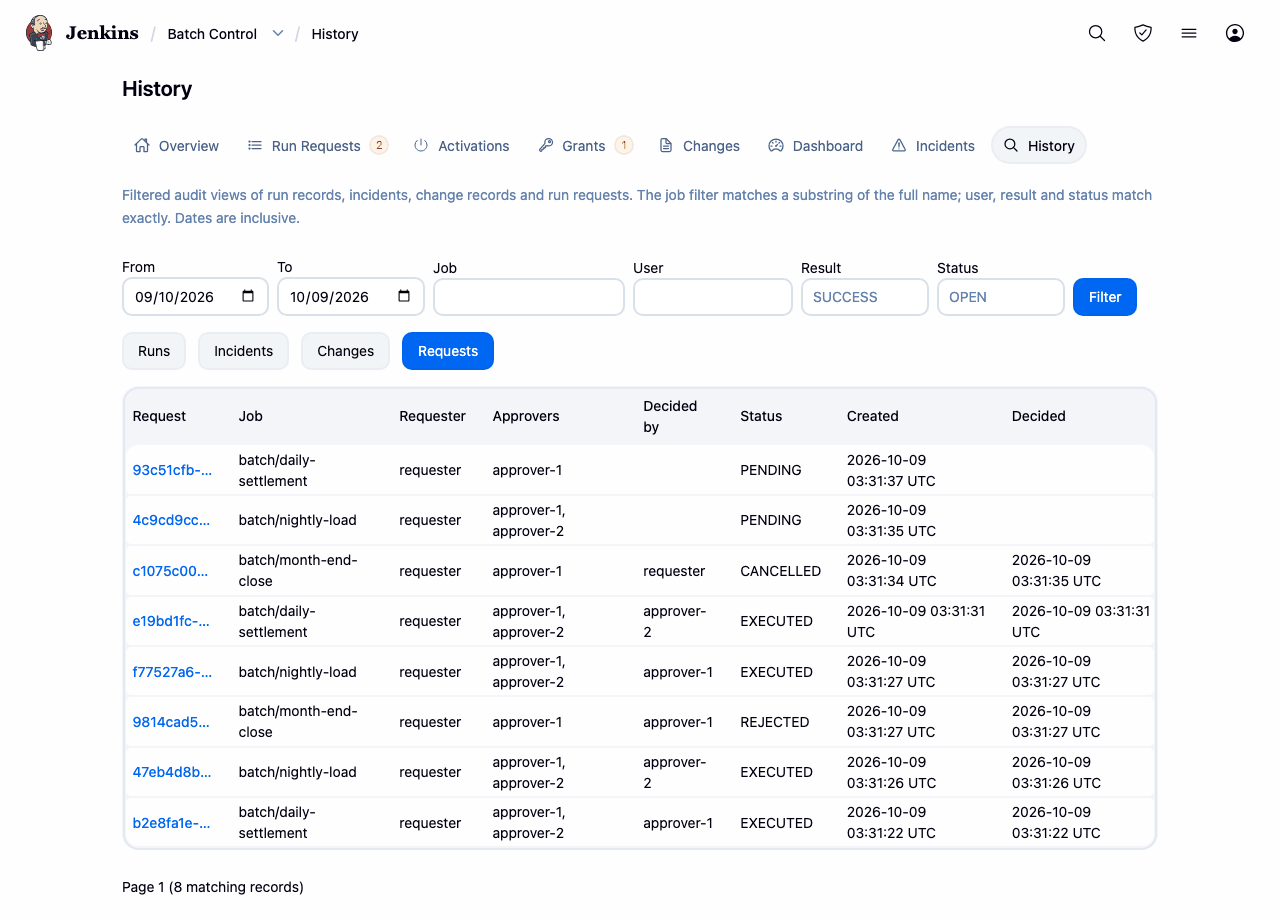
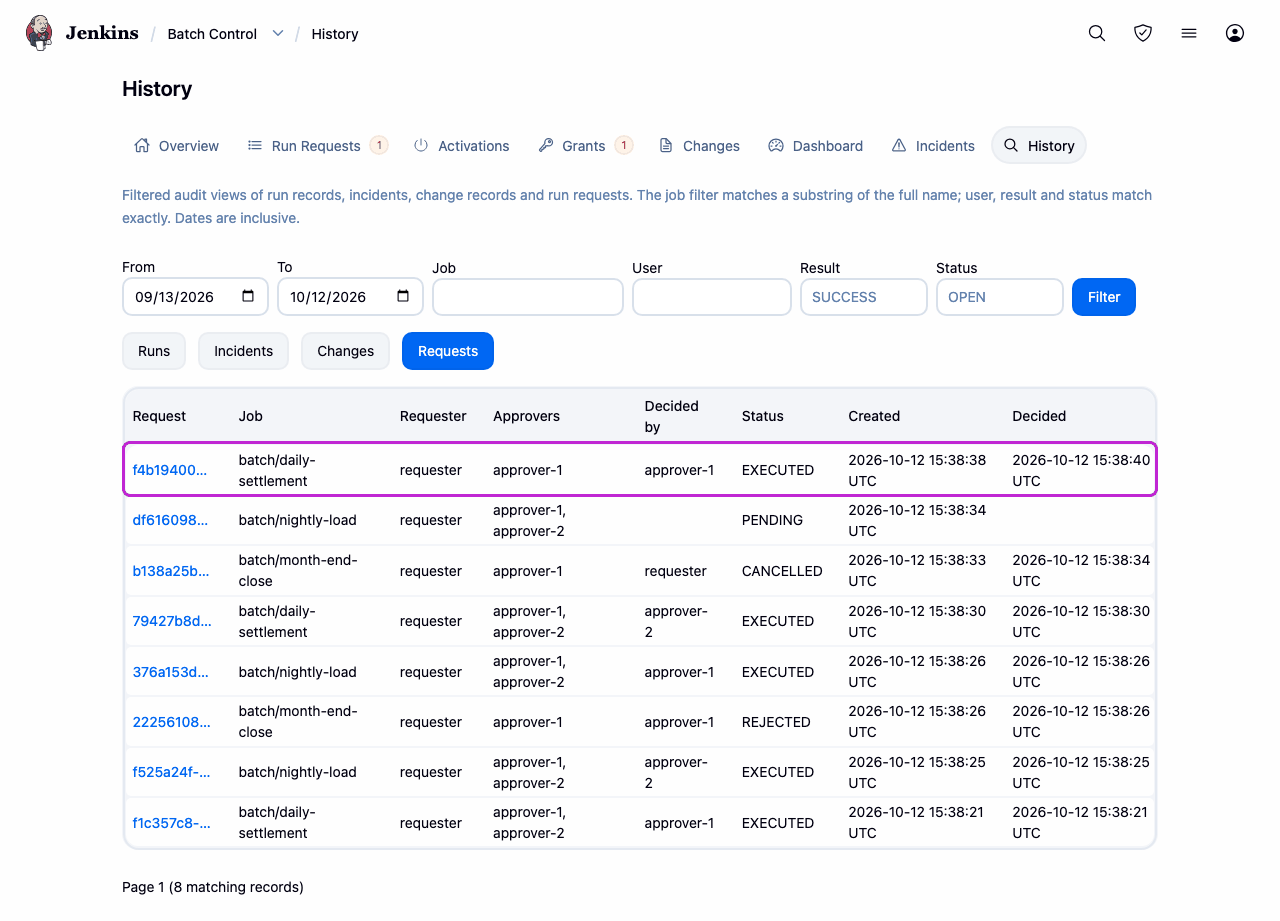
docs: retake the README screenshots by role, with highlights (#85)
Six pictures in the order of proposal A, each taken as the account
that does the step:

1. Set it up: global-config.png (admin).
2. Run a protected job: request-run.png (requester), approval.png
   (approver-1), history.png (approver-1).
3. Change a job safely: permission-window.png (requester) and the new
   permission-window-approval.png (approver-1).

The request of step 2 and the window of step 3 are the same ones from
form to decision: capture.py submits the form it has photographed,
photographs the approver's page of it and approves the run request, so
History shows that request as EXECUTED in its first row.

Every picture has at most two highlight frames in one accent colour,
drawn by the script on the page right before the capture. The script
stops if a frame's line would cross text or a control. All pictures
stay 1280 px wide. global-config.png now ends below the last setting,
so the red "Revert to the plain strategy" button is not in it.

README.md and README.ko.md still use the old order and link
docs/images/dashboard.png; release-manager updates them on this branch.

Claude-Session: https://claude.ai/code/session_01UiYzneo1URiu8KnwcuKoCw

diff --git a/e2e/readme-screenshots/capture.py b/e2e/readme-screenshots/capture.py
@@ -1,11 +1,21 @@
-"""Recreates the demo data and the five README screenshots (docs/images/*.png). See README.md next to this file.
+"""Recreates the demo data and the six README screenshots (docs/images/*.png). See README.md next to this file.
+
+The screenshots follow the README's three steps, each taken as the account that does the step:
+  1. set it up            global-config (admin)
+  2. run a protected job  request-run (requester) -> approval (approver-1) -> history (approver-1)
+  3. change a job safely  permission-window (requester) -> permission-window-approval (approver-1)
+The request of step 2 and the window of step 3 are the same ones from form to decision: the form that is
+photographed is submitted, its approver's page is photographed, and the run request is then approved so that
+History shows it as EXECUTED. Every image is 1280 px wide and carries at most two highlight frames, drawn by
+highlight() right before the capture (one style, see ACCENT); nothing is edited by hand afterwards.
 
 Runs against a running e2e stack (scripts/up.sh, Jenkins at the root context), preferably a fresh one: the seed
-is skipped when the folder `batch` already exists, the screenshots are always taken (each run adds one pending
-run request, the one the Request Run form submits). Reuses ../r6/lib.py: Session (one browser context per
-account, real login form), api (basic auth + crumb) and groovy (script console). The script console only arranges
-state (settings, the demo folder and jobs); every run request, decision, grant and configuration change goes
-through the plugin's own HTTP endpoints as the account a person would use, the screenshots through the browser.
+is skipped when the folder `batch` already exists, the screenshots are always taken (each run adds one executed
+run request and one pending permission window request, the ones the two forms submit). Reuses ../r6/lib.py:
+Session (one browser context per account, real login form), api (basic auth + crumb) and groovy (script console).
+The script console only arranges state (settings, the demo folder and jobs); every run request, decision, grant
+and configuration change goes through the plugin's own HTTP endpoints as the account a person would use, the
+screenshots through the browser.
 """
 import json
 import os
@@ -198,12 +208,89 @@ def seed():
 
 # ------------------------------------------------------------------------------------------ screenshots
 
-def write(page, name, height, top=0):
-    """Viewport clip, full width; then (if Pillow is installed) 256 colours, which a flat UI does not show."""
+# The one highlight colour. A hue that these pages do not use themselves: Jenkins' blue is the primary button, the
+# links and the checked boxes, red is Reject, orange the warnings and the tab badges, green the build results.
+ACCENT = "#c026d3"
+RING = 3  # px, line width of a highlight frame
+GAP = 6   # px left free between the highlighted elements and their frame
+
+# Frames in viewport coordinates in; one absolutely positioned <div> per frame out. Returns what a frame's line
+# would cross (visible text, form controls, buttons, icons) and a frame that did not land where it was asked.
+FRAMES_JS = r"""([frames, ring, colour]) => {
+  const wrong = [];
+  const lines = f => [[f.x, f.y, f.w, ring], [f.x, f.y + f.h - ring, f.w, ring],
+                      [f.x, f.y, ring, f.h], [f.x + f.w - ring, f.y, ring, f.h]];
+  const check = (r, what) => {
+    if (r.width > 0 && r.height > 0 && frames.some(f => lines(f).some(
+        ([x, y, w, h]) => x < r.right && r.left < x + w && y < r.bottom && r.top < y + h))) {
+      wrong.push('crosses ' + what.trim().replace(/\s+/g, ' ').slice(0, 40));
+    }
+  };
+  const shown = e => e.checkVisibility({visibilityProperty: true, opacityProperty: true});
+  const walker = document.createTreeWalker(document.body, NodeFilter.SHOW_TEXT);
+  const range = document.createRange();
+  for (let n = walker.nextNode(); n; n = walker.nextNode()) {
+    if (!n.data.trim() || !shown(n.parentElement)) continue;
+    range.selectNodeContents(n);
+    for (const r of range.getClientRects()) check(r, n.data);
+  }
+  const controls = 'input:not([type=hidden]), textarea, select, button, a.jenkins-button, label, svg';
+  for (const e of document.querySelectorAll(controls)) {
+    if (shown(e)) check(e.getBoundingClientRect(), `<${e.tagName.toLowerCase()}> ${e.name || e.innerText || ''}`);
+  }
+  for (const f of frames) {
+    const d = document.createElement('div');
+    d.style.cssText = `position: absolute; left: ${f.x + scrollX}px; top: ${f.y + scrollY}px; width: ${f.w}px; `
+      + `height: ${f.h}px; box-sizing: border-box; border: ${ring}px solid ${colour}; border-radius: ${ring + 5}px; `
+      + 'pointer-events: none; z-index: 2147483647;';
+    document.body.appendChild(d);
+    const r = d.getBoundingClientRect();
+    if (Math.abs(r.x - f.x) > 0.5 || Math.abs(r.y - f.y) > 0.5) wrong.push(`is at ${r.x},${r.y}, not ${f.x},${f.y}`);
+  }
+  return wrong;
+}"""
+
+
+def highlight(page, *regions, gap=GAP):
+    """Frames each region in the accent colour. A region is a locator, or a list of locators that get one frame
+    around all of them. At most two regions per image, and no frame line may cross text or a control (it raises).
+    Call it when the layout is final (after fit() or settle()), right before write()."""
+    if not 1 <= len(regions) <= 2:
+        raise ValueError("one or two highlighted regions per image")
+    frames = []
+    for region in regions:
+        boxes = [loc.bounding_box() for loc in (region if isinstance(region, (list, tuple)) else [region])]
+        x0, y0 = min(b["x"] for b in boxes), min(b["y"] for b in boxes)
+        x1, y1 = max(b["x"] + b["width"] for b in boxes), max(b["y"] + b["height"] for b in boxes)
+        out = gap + RING
+        frames.append({"x": round(x0 - out), "y": round(y0 - out),
+                       "w": round(x1 - x0 + 2 * out), "h": round(y1 - y0 + 2 * out)})
+    wrong = page.evaluate(FRAMES_JS, [frames, RING, ACCENT])
+    if wrong:
+        raise RuntimeError(f"highlight frame: {wrong}")
+
+
+def settle(page):
+    """No focus ring in the picture (it fades out with a CSS transition) and no field check still on its way (its
+    answer can add a line and move everything below it)."""
+    page.evaluate("document.activeElement && document.activeElement.blur()")
+    page.wait_for_load_state("networkidle")
+    page.wait_for_timeout(600)
+
+
+def fit(page):
+    """The viewport as tall as the document, so sticky bars (header, form buttons) sit where a reader sees them."""
+    page.set_viewport_size({"width": 1280, "height": 900})
+    h = page.evaluate("document.documentElement.scrollHeight")
+    page.set_viewport_size({"width": 1280, "height": min(max(900, h), 2400)})
+    settle(page)
+
+
+def write(page, name, height):
+    """Viewport clip from the top, full width; then (if Pillow is installed) 256 colours, which a flat UI does not
+    show."""
     path = IMAGES / f"{name}.png"
-    page.evaluate("document.activeElement && document.activeElement.blur()")  # no focus ring in the picture
-    page.wait_for_timeout(600)  # the ring fades out with a CSS transition
-    page.screenshot(path=str(path), clip={"x": 0, "y": top, "width": 1280, "height": int(height)})
+    page.screenshot(path=str(path), clip={"x": 0, "y": 0, "width": 1280, "height": int(height)})
     try:
         from PIL import Image
         Image.open(path).convert("RGB").quantize(colors=256, method=Image.Quantize.MEDIANCUT,
@@ -213,16 +300,18 @@ def write(page, name, height, top=0):
     print(f"docs/images/{name}.png: {path.stat().st_size // 1024} KB")
 
 
-def save(page, name, bottom, pad=24):
-    """From the top of the page (header and breadcrumb) to the bottom edge of `bottom`, with the viewport as tall
-    as the document first, so sticky bars (header, form buttons) sit where a reader sees them."""
-    page.set_viewport_size({"width": 1280, "height": 900})
-    h = page.evaluate("document.documentElement.scrollHeight")
-    page.set_viewport_size({"width": 1280, "height": min(max(900, h), 2400)})
-    page.wait_for_timeout(300)
+def save(page, name, bottom, *regions, gap=GAP, pad=24):
+    """From the top of the page (header and breadcrumb) to the bottom edge of `bottom`, `regions` highlighted."""
+    fit(page)
+    highlight(page, *regions, gap=gap)
     loc = page.locator(bottom).last if isinstance(bottom, str) else bottom
     box = loc.bounding_box()
     write(page, name, box["y"] + box["height"] + pad)
+
+
+def entry(scope, control):
+    """The form entry (label, description and control) in `scope` that holds the element `control` selects."""
+    return scope.locator(".jenkins-form-item", has=scope.page.locator(control))
 
 
 def param(page, name):
@@ -235,55 +324,16 @@ def tick(checkbox, on=True):
         checkbox.evaluate("el => el.click()")
 
 
-def shot_request_run():
-    s = lib.Session("requester")
-    s.go(f"{SETTLEMENT}/batch-control/")
-    p = s.page
-    p.fill('textarea[name="reason"]', "Re-run for 2026-10-08 after upstream file arrived late (vendor ticket INC-5521).")
-    # One approver only: with two boxes checked the multipart form currently keeps just the last one, so the
-    # approval screenshot (approver-1's view) would show no Approve/Reject buttons.
-    tick(p.locator("#batch-control-approver-0"))
-    param(p, "BUSINESS_DATE").locator('input[name="value"]').fill("2026-10-08")
-    param(p, "SCOPE").locator('select[name="value"]').select_option("ALL")
-    tick(param(p, "DRY_RUN").locator('input[name="value"]'), on=False)
-    save(p, "request-run", 'button[name="Submit"]')
-    with p.expect_navigation():
-        p.locator('button[name="Submit"]').click()
-    req = rel(p.url)
-    s.done()
-    return req
-
-
-def shot_approval(req):
-    s = lib.Session("approver-1")
-    s.go(req)
-    if s.page.locator('button:has-text("Approve")').count() == 0:
-        raise RuntimeError(f"approver-1 sees no Approve button on {req}")
-    save(s.page, "approval", "#main-panel")
-    s.done()
-
-
-def shot_permission_window():
-    s = lib.Session("requester")
-    s.go(f"/batch-control/grants/new?scopeFullName={FOLDER}/nightly-load")
-    p = s.page
-    tick(p.locator("#grant-action-configure"))
-    p.select_option('select[name="durationMinutes"]', "60")
-    p.fill('textarea[name="reason"]', "Add the new SFTP host as a fallback source for the vendor extract (CHG-2311).")
-    tick(p.locator("#grant-approver-0"))
-    tick(p.locator("#grant-approver-1"))
-    save(p, "permission-window", 'button[name="Submit"]')
-    s.done()
-
-
-def shot_history():
-    s = lib.Session("approver-1")
-    s.go("/batch-control/history/?kind=requests")
-    save(s.page, "history", s.page.get_by_text(re.compile(r"matching records")).first)
-    s.done()
+def decision_buttons(page, what):
+    approve = page.get_by_role("button", name="Approve", exact=True)
+    reject = page.get_by_role("button", name="Reject", exact=True)
+    if approve.count() != 1 or reject.count() != 1:
+        raise RuntimeError(f"approver-1 sees no Approve and Reject on {what}")
+    return approve, reject
 
 
 def shot_global_config():
+    """Step 1, administrator: the two switches and the Approvers list."""
     s = lib.Session("admin")
     s.go("/manage/configure")
     p = s.page
@@ -296,19 +346,111 @@ def shot_global_config():
     box = section.bounding_box()
     p.set_viewport_size({"width": 1280, "height": int(header + box["height"] + 160)})
     p.evaluate(f"window.scrollTo(0, {box['y'] - header - 16})")
-    p.wait_for_timeout(500)
-    box = section.bounding_box()  # viewport coordinates after the scroll
-    write(p, "global-config", box["y"] + box["height"] + 16)
+    settle(p)
+
+    def switch(field):  # the checkbox with its caption and help button, not the whole (page-wide) entry
+        return entry(section, f'[name="_.{field}"]').locator(".setting-main")
+    highlight(p, [switch("runControlEnabled"), switch("changeControlEnabled")],
+              entry(section, '[name="_.approversText"]'))
+    # The picture ends below the last setting. What follows it in the section is not a setting: the "Batch Control
+    # strategy" entry with the red "Revert to the plain strategy" button, which drew the eye away from the switches
+    # (issue #85).
+    last = section.locator(":scope > .jenkins-form-item", has=p.locator('[name^="_."]')).last.bounding_box()
+    write(p, "global-config", last["y"] + last["height"] + 13)  # 13: half of the space between two entries
+    s.done()
+
+
+def shot_request_run():
+    """Step 2, requester: the reason and the approver choice. Submits the form and returns the request's page."""
+    s = lib.Session("requester")
+    s.go(f"{SETTLEMENT}/batch-control/")
+    p = s.page
+    form = p.locator('form[name="batch-control-request"]')
+    p.fill('textarea[name="reason"]', "Re-run for 2026-10-08 after upstream file arrived late (vendor ticket INC-5521).")
+    tick(p.locator("#batch-control-approver-0"))
+    param(p, "BUSINESS_DATE").locator('input[name="value"]').fill("2026-10-08")
+    param(p, "SCOPE").locator('select[name="value"]').select_option("ALL")
+    tick(param(p, "DRY_RUN").locator('input[name="value"]'), on=False)
+    save(p, "request-run", 'button[name="Submit"]',
+         [entry(form, 'textarea[name="reason"]'), entry(form, "#batch-control-approver-0")])
+    with p.expect_navigation():
+        p.locator('button[name="Submit"]').click()
+    req = rel(p.url)
+    if not re.fullmatch(r"/batch-control/requests/[0-9a-f-]{36}/", req):
+        raise RuntimeError(f"the run request was not created: {req}\n{s.text()[:800]}")
+    s.done()
+    return req
+
+
+def shot_approval(req):
+    """Step 2, approver: Approve and Reject on the pending run request."""
+    s = lib.Session("approver-1")
+    s.go(req)
+    save(s.page, "approval", "#main-panel", *decision_buttons(s.page, req))
+    s.done()
+
+
+def shot_history(req):
+    """Step 2, anyone with ViewHistory: the row of the request of the two pictures before, now EXECUTED."""
+    s = lib.Session("approver-1")
+    p = s.page
+    row = p.locator("#main-panel tbody tr", has=p.locator(f'a[href$="{req}"]'))
+
+    def executed():
+        s.go("/batch-control/history/?kind=requests")
+        return "EXECUTED" in row.inner_text()
+    if not lib.poll(executed, timeout=30, what=f"{req} is EXECUTED in History"):
+        raise RuntimeError(f"History does not show {req} as EXECUTED")
+    # gap=1: a table row has no room for the default; with it the line would run through the text of the rows above
+    # and below, and highlight() refuses that.
+    save(p, "history", p.get_by_text(re.compile(r"matching records")).first, row, gap=1)
+    s.done()
+
+
+def shot_permission_window():
+    """Step 3, requester: the actions with the duration, and the reason. Submits the form and returns the
+    window request's page."""
+    s = lib.Session("requester")
+    s.go(f"/batch-control/grants/new?scopeFullName={FOLDER}/nightly-load")
+    p = s.page
+    form = p.locator('form[name="createGrantRequest"]')
+    form.locator(".ok").wait_for()  # the answer of the name check ("Freestyle project ...") adds a line
+    tick(p.locator("#grant-action-configure"))
+    p.select_option('select[name="durationMinutes"]', "60")
+    p.fill('textarea[name="reason"]', "Add the new SFTP host as a fallback source for the vendor extract (CHG-2311).")
+    tick(p.locator("#grant-approver-0"))
+    tick(p.locator("#grant-approver-1"))
+    save(p, "permission-window", 'button[name="Submit"]',
+         [entry(form, "#grant-action-configure"), entry(form, 'select[name="durationMinutes"]')],
+         entry(form, 'textarea[name="reason"]'))
+    with p.expect_navigation():
+        p.locator('button[name="Submit"]').click()
+    grant = rel(p.url)
+    if not re.fullmatch(r"/batch-control/grants/[0-9a-f-]{36}/", grant):
+        raise RuntimeError(f"the permission window request was not created: {grant}\n{s.text()[:800]}")
+    s.done()
+    return grant
+
+
+def shot_window_approval(grant):
+    """Step 3, approver: Approve and Reject on the pending permission window request."""
+    s = lib.Session("approver-1")
+    s.go(grant)
+    save(s.page, "permission-window-approval", "#main-panel", *decision_buttons(s.page, grant))
     s.done()
 
 
 def main():
     IMAGES.mkdir(parents=True, exist_ok=True)
     seed()
-    shot_approval(shot_request_run())
-    shot_permission_window()
-    shot_history()
     shot_global_config()
+    req = shot_request_run()
+    shot_approval(req)
+    number = lib.api("admin", f"{SETTLEMENT}/api/json?tree=nextBuildNumber").json()["nextBuildNumber"]
+    print(f"daily-settlement #{number}",
+          approve_and_run(SETTLEMENT, number, req, "approver-1", "Vendor confirmed the late delivery, go ahead."))
+    shot_history(req)
+    shot_window_approval(shot_permission_window())
     lib.close()
 
 

diff --git a/e2e/readme-screenshots/README.md b/e2e/readme-screenshots/README.md
@@ -1,7 +1,29 @@
 # README screenshots
 
-`capture.py` seeds demo data (folder `batch`, run requests, grants, a configuration change) and writes the five
-images in `docs/images/` that the README uses. Run it against a fresh e2e stack after UI changes (Python >= 3.10):
+`capture.py` seeds demo data (folder `batch`, run requests, grants, a configuration change) and writes the six
+images in `docs/images/` that the README uses. They follow the README's three steps, and each one is taken as the
+account that does the step:
+
+| Step | Image | Account | Page | Highlighted |
+|---|---|---|---|---|
+| 1. Set it up | `global-config.png` | `admin` | Manage Jenkins → System, the Batch Control section down to its last setting | the two switches; the Approvers list |
+| 2. Run a protected job | `request-run.png` | `requester` | Request Run of `batch/daily-settlement` | Reason and Approvers (one frame) |
+| | `approval.png` | `approver-1` | that run request, pending | Approve; Reject |
+| | `history.png` | `approver-1` | History, Requests view | the row of that request, now EXECUTED |
+| 3. Change a job safely | `permission-window.png` | `requester` | Request Change Permission for `batch/nightly-load` | Actions with Duration; Reason |
+| | `permission-window-approval.png` | `approver-1` | that permission window request, pending | Approve; Reject |
+
+The request of step 2 and the window of step 3 are the same ones from form to decision: the script submits the form
+it has photographed, photographs the approver's page of what was submitted, and approves the run request so that
+History shows who asked, who decided and that it ran.
+
+Every image is 1280 px wide. The highlight is a rounded frame in one accent colour (`ACCENT` in `capture.py`) that
+the script draws on the page right before the capture: at most two frames per image, and the script stops if a
+frame's line would cross text or a control. No image is edited by hand. `global-config.png` ends below the last
+setting of the section; the "Batch Control strategy" entry under it (the red "Revert to the plain strategy" button)
+is not in the picture.
+
+Run it against a fresh e2e stack after UI changes (Python >= 3.10):
 
 ```bash
 mvn -ntp clean package -DskipTests && cd e2e && cp -n .env.example .env    # then set the passwords in .env
@@ -9,3 +31,11 @@ scripts/reset.sh; TZ=UTC scripts/up.sh                                      # fr
 python3 -m venv ~/.venvs/bc && ~/.venvs/bc/bin/pip install playwright requests pillow && ~/.venvs/bc/bin/playwright install chromium
 ~/.venvs/bc/bin/python readme-screenshots/capture.py && scripts/down.sh      # review the PNGs before committing
 ```
+
+`scripts/reset.sh` deletes the JENKINS_HOME volume of the compose project. To leave the default project's volume
+(`batch-control-e2e_jenkins_home`) alone, run the three stack scripts with `COMPOSE_PROJECT_NAME=<another name>`:
+the stack then gets a volume of its own. The container names and ports stay the same, so stop one stack before
+starting another.
+
+On a stack that is not fresh the script still runs (the seed is skipped), but every run adds one executed run
+request and one pending permission window request, so History and the tab badges show more than on a fresh one.
